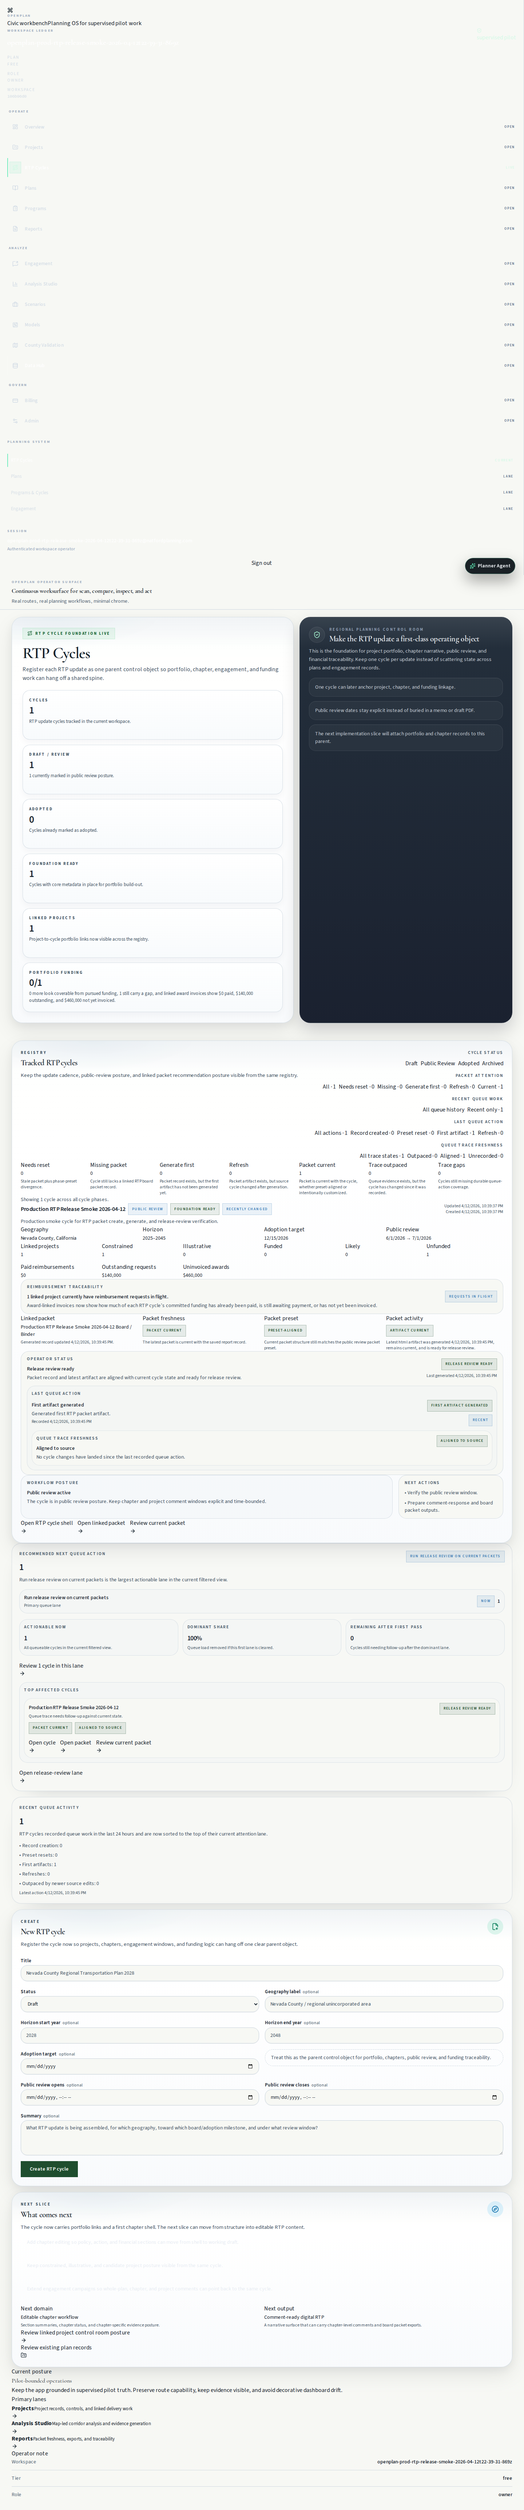
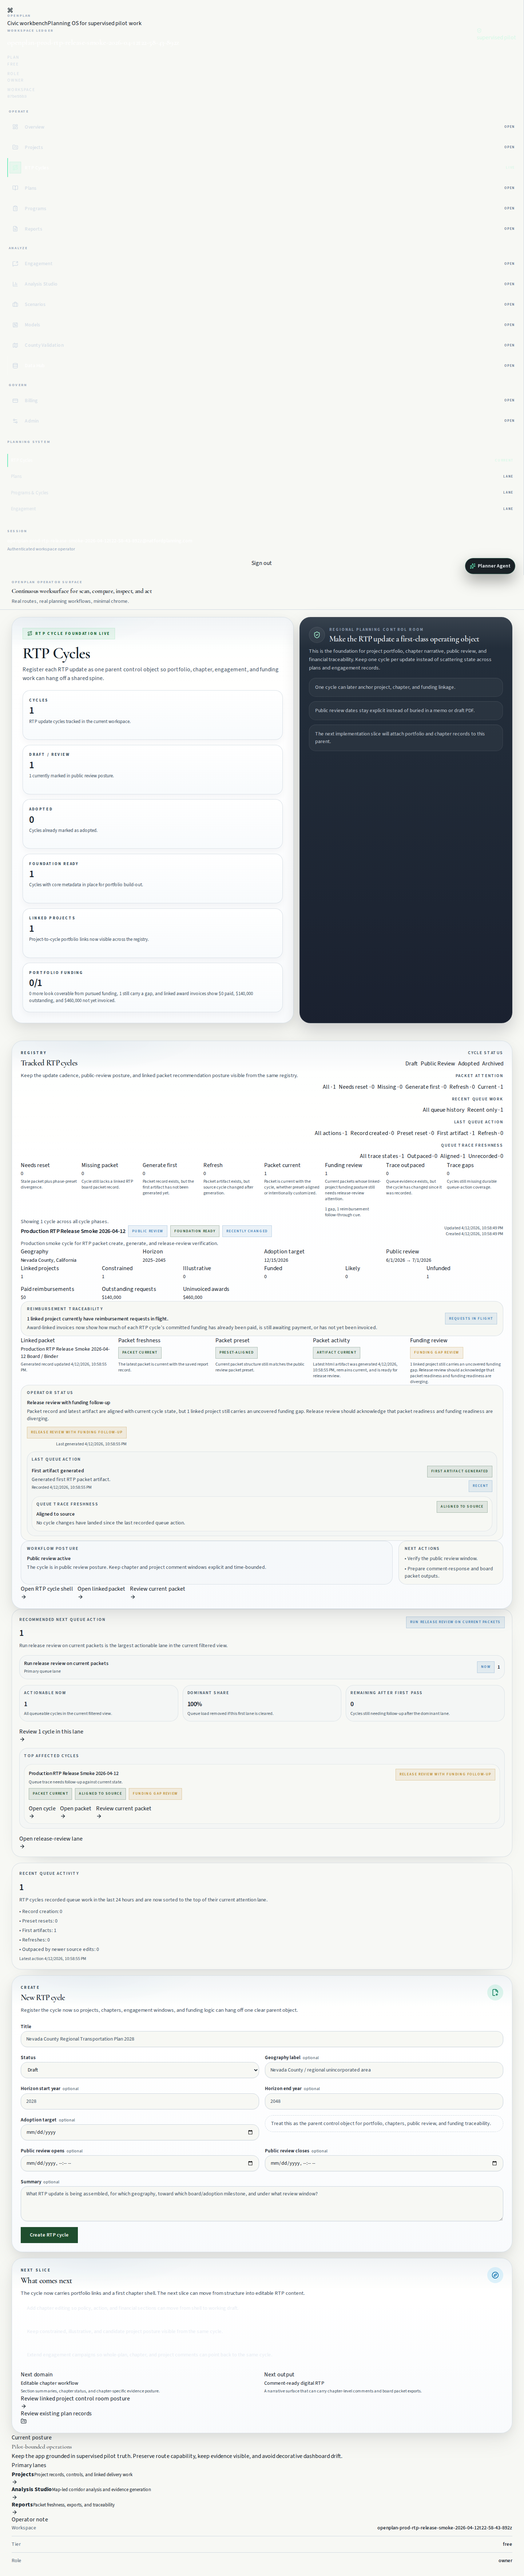
feat: surface RTP funding review in registry

diff --git a/openplan/src/app/(app)/rtp/page.tsx b/openplan/src/app/(app)/rtp/page.tsx
@@ -246,11 +246,91 @@ function matchesPacketAttentionFilter(filter: PacketAttentionFilter, packetAtten
   return filter === packetAttention;
 }
 
+function formatUsdWholeAmount(value: number) {
+  return new Intl.NumberFormat("en-US", {
+    style: "currency",
+    currency: "USD",
+    maximumFractionDigits: 0,
+  }).format(value);
+}
+
+function buildPacketFundingReview(input: {
+  linkedProjectCount: number;
+  fundedProjectCount: number;
+  likelyCoveredProjectCount: number;
+  unfundedProjectCount: number;
+  reimbursementInFlightCount: number;
+  outstandingReimbursementAmount: number;
+  uninvoicedAwardAmount: number;
+}) {
+  if (input.linkedProjectCount === 0) {
+    return {
+      label: "No linked projects",
+      tone: "neutral" as const,
+      detail: "This RTP cycle does not yet have linked projects, so funding-backed release review is not active here.",
+      needsAttention: false,
+    };
+  }
+
+  if (input.unfundedProjectCount > 0) {
+    return {
+      label: "Funding gap review",
+      tone: "warning" as const,
+      detail: `${input.unfundedProjectCount} linked project${input.unfundedProjectCount === 1 ? " still carries" : "s still carry"} an uncovered funding gap. Release review should acknowledge that packet readiness and funding readiness are diverging.`,
+      needsAttention: true,
+    };
+  }
+
+  if (input.uninvoicedAwardAmount > 0) {
+    return {
+      label: "Award follow-through pending",
+      tone: "info" as const,
+      detail: `${formatUsdWholeAmount(input.uninvoicedAwardAmount)} in awarded funding has not been invoiced yet, so packet release review should flag reimbursement follow-through before the cycle looks financially settled.`,
+      needsAttention: true,
+    };
+  }
+
+  if (input.outstandingReimbursementAmount > 0 || input.reimbursementInFlightCount > 0) {
+    return {
+      label: "Reimbursement in flight",
+      tone: "info" as const,
+      detail: `${formatUsdWholeAmount(input.outstandingReimbursementAmount)} remains outstanding across ${input.reimbursementInFlightCount} linked project${input.reimbursementInFlightCount === 1 ? " reimbursement request" : " reimbursement requests"} in flight.`,
+      needsAttention: true,
+    };
+  }
+
+  if (input.likelyCoveredProjectCount > 0) {
+    return {
+      label: "Pipeline-backed review",
+      tone: "info" as const,
+      detail: `${input.likelyCoveredProjectCount} linked project${input.likelyCoveredProjectCount === 1 ? " looks" : "s look"} likely coverable through pursued funding, but the packet still depends on pipeline conversion rather than secured money.`,
+      needsAttention: true,
+    };
+  }
+
+  if (input.fundedProjectCount > 0) {
+    return {
+      label: "Funding posture aligned",
+      tone: "success" as const,
+      detail: "Linked projects are fully funded or reimbursed with no visible funding follow-through pressure blocking packet release review.",
+      needsAttention: false,
+    };
+  }
+
+  return {
+    label: "Funding posture not anchored",
+    tone: "neutral" as const,
+    detail: "Linked projects exist, but no durable funding posture is anchored yet, so release review remains packet-heavy instead of truly integrated.",
+    needsAttention: false,
+  };
+}
+
 function buildPacketOperatorStatus(input: {
   packetReport: RtpPacketReportRow | null;
   packetFreshness: { label: string };
   packetPresetPosture: { label: string };
   packetQueueTraceState: { state: QueueTraceStateFilter; label: string };
+  packetFundingReview: { label: string; tone: "neutral" | "info" | "success" | "warning" | "danger"; detail: string; needsAttention: boolean };
 }) {
   if (!input.packetReport) {
     return {
@@ -297,6 +377,14 @@ function buildPacketOperatorStatus(input: {
       label: "Trace gap",
       tone: "neutral" as const,
       detail: "Packet state is visible, but this cycle still lacks durable queue-action trace coverage.",
+    };
+  }
+
+  if (input.packetFundingReview.needsAttention) {
+    return {
+      label: "Release review with funding follow-up",
+      tone: input.packetFundingReview.tone === "warning" ? ("warning" as const) : ("info" as const),
+      detail: `Packet record and latest artifact are aligned with current cycle state, but ${input.packetFundingReview.detail.charAt(0).toLowerCase()}${input.packetFundingReview.detail.slice(1)}`,
     };
   }
 
@@ -726,6 +814,27 @@ export default async function RtpPage({ searchParams }: { searchParams: RtpPageS
             : packetFreshness.label === "Refresh recommended"
             ? ("refresh" as const)
             : ("current" as const);
+      const packetFundingReview = buildPacketFundingReview({
+        linkedProjectCount: cycleLinks.length,
+        fundedProjectCount: cycleFundingSummaries.filter((summary) => summary.status === "funded").length,
+        likelyCoveredProjectCount: cycleFundingSummaries.filter(
+          (summary) => summary.status !== "funded" && summary.pipelineStatus === "likely_covered"
+        ).length,
+        unfundedProjectCount: cycleFundingSummaries.filter(
+          (summary) => summary.pipelineStatus === "unfunded" || summary.pipelineStatus === "partially_covered"
+        ).length,
+        reimbursementInFlightCount: cycleFundingSummaries.filter(
+          (summary) => summary.reimbursementStatus === "in_review"
+        ).length,
+        outstandingReimbursementAmount: cycleFundingSummaries.reduce(
+          (sum, summary) => sum + summary.outstandingReimbursementAmount,
+          0
+        ),
+        uninvoicedAwardAmount: cycleFundingSummaries.reduce(
+          (sum, summary) => sum + summary.uninvoicedAwardAmount,
+          0
+        ),
+      });
 
       return {
         ...cycle,
@@ -763,7 +872,9 @@ export default async function RtpPage({ searchParams }: { searchParams: RtpPageS
           packetFreshness,
           packetPresetPosture,
           packetQueueTraceState,
+          packetFundingReview,
         }),
+        packetFundingReview,
         packetQueueTrace,
         packetQueueTraceState,
         packetActivityTrace: buildPacketActivityTrace({
@@ -973,6 +1084,17 @@ export default async function RtpPage({ searchParams }: { searchParams: RtpPageS
   const dominantActionReportIds = dominantActionCycles
     .map((cycle) => cycle.packetReport?.id ?? null)
     .filter((value): value is string => Boolean(value));
+  const currentFundingReviewCount = typedCycles.filter(
+    (cycle) => cycle.packetAttention === "current" && cycle.packetFundingReview.needsAttention
+  ).length;
+  const currentFundingGapReviewCount = typedCycles.filter(
+    (cycle) => cycle.packetAttention === "current" && cycle.packetFundingReview.label === "Funding gap review"
+  ).length;
+  const currentReimbursementFollowThroughCount = typedCycles.filter(
+    (cycle) =>
+      cycle.packetAttention === "current" &&
+      (cycle.uninvoicedAwardAmount > 0 || cycle.outstandingReimbursementAmount > 0 || cycle.reimbursementInFlightCount > 0)
+  ).length;
   const dominantTraceFollowUpCounts = {
     outpaced: dominantActionCycles.filter((cycle) => cycle.packetQueueTraceState.state === "outpaced").length,
     unrecorded: dominantActionCycles.filter((cycle) => cycle.packetQueueTraceState.state === "unrecorded").length,
@@ -1219,7 +1341,7 @@ export default async function RtpPage({ searchParams }: { searchParams: RtpPageS
               </div>
             </div>
 
-            <div className="grid gap-3 md:grid-cols-2 xl:grid-cols-7">
+            <div className="grid gap-3 md:grid-cols-2 xl:grid-cols-8">
               <div className="module-metric-card">
                 <p className="module-metric-label">Needs reset</p>
                 <p className="module-metric-value text-sm">{packetAttentionCounts.reset}</p>
@@ -1244,6 +1366,18 @@ export default async function RtpPage({ searchParams }: { searchParams: RtpPageS
                 <p className="module-metric-label">Packet current</p>
                 <p className="module-metric-value text-sm">{packetAttentionCounts.current}</p>
                 <p className="mt-1 text-xs text-muted-foreground">Packet is current with the cycle, whether preset-aligned or intentionally customized.</p>
+              </div>
+              <div className="module-metric-card">
+                <p className="module-metric-label">Funding review</p>
+                <p className="module-metric-value text-sm">{currentFundingReviewCount}</p>
+                <p className="mt-1 text-xs text-muted-foreground">
+                  Current packets whose linked-project funding posture still needs release-review attention.
+                </p>
+                {currentFundingReviewCount > 0 ? (
+                  <p className="mt-3 text-xs text-muted-foreground">
+                    {currentFundingGapReviewCount} gap{currentFundingGapReviewCount === 1 ? "" : "s"}, {currentReimbursementFollowThroughCount} reimbursement follow-through cue{currentReimbursementFollowThroughCount === 1 ? "" : "s"}.
+                  </p>
+                ) : null}
               </div>
               <div className="module-metric-card">
                 <p className="module-metric-label">Trace outpaced</p>
@@ -1428,7 +1562,7 @@ export default async function RtpPage({ searchParams }: { searchParams: RtpPageS
                       </div>
                     </div>
 
-                    <div className="grid gap-3 md:grid-cols-2 xl:grid-cols-4">
+                    <div className="grid gap-3 md:grid-cols-2 xl:grid-cols-5">
                       <div className="module-metric-card">
                         <p className="module-metric-label">Linked packet</p>
                         <p className="module-metric-value text-sm">{cycle.packetReport?.title ?? "Not created"}</p>
@@ -1458,6 +1592,13 @@ export default async function RtpPage({ searchParams }: { searchParams: RtpPageS
                           <StatusBadge tone={cycle.packetActivityTrace.tone}>{cycle.packetActivityTrace.label}</StatusBadge>
                         </div>
                         <p className="mt-2 text-xs text-muted-foreground">{cycle.packetActivityTrace.detail}</p>
+                      </div>
+                      <div className="module-metric-card">
+                        <p className="module-metric-label">Funding review</p>
+                        <div className="mt-1">
+                          <StatusBadge tone={cycle.packetFundingReview.tone}>{cycle.packetFundingReview.label}</StatusBadge>
+                        </div>
+                        <p className="mt-2 text-xs text-muted-foreground">{cycle.packetFundingReview.detail}</p>
                       </div>
                     </div>
 
@@ -1741,6 +1882,7 @@ export default async function RtpPage({ searchParams }: { searchParams: RtpPageS
                             <div className="mt-2 flex flex-wrap gap-2">
                               <StatusBadge tone={cycle.packetFreshness.tone}>{cycle.packetFreshness.label}</StatusBadge>
                               <StatusBadge tone={cycle.packetQueueTraceState.tone}>{cycle.packetQueueTraceState.label}</StatusBadge>
+                              <StatusBadge tone={cycle.packetFundingReview.tone}>{cycle.packetFundingReview.label}</StatusBadge>
                             </div>
                           </div>
                           <StatusBadge tone={cycle.packetOperatorStatus.tone}>{cycle.packetOperatorStatus.label}</StatusBadge>

diff --git a/qa-harness/openplan-prod-rtp-release-review-smoke.js b/qa-harness/openplan-prod-rtp-release-review-smoke.js
@@ -272,10 +272,14 @@ async function main() {
 
     await page.goto(`${productionBaseUrl}/rtp`, { waitUntil: 'networkidle' });
     await page.getByText(cycleTitle, { exact: false }).first().waitFor({ timeout: 30000 });
+    const cycleRow = page.locator('article').filter({ has: page.getByRole('link', { name: new RegExp(cycleTitle, 'i') }) }).first();
+    await cycleRow.getByText(/Release review with funding follow-up/i).first().waitFor({ timeout: 30000 });
+    await cycleRow.getByText(/Funding gap review|Award follow-through pending|Reimbursement in flight|Pipeline-backed review/i).first().waitFor({ timeout: 30000 });
+    await page.getByText(/Funding review/i).first().waitFor({ timeout: 30000 });
     await page.getByRole('link', { name: /Open release-review lane/i }).waitFor({ timeout: 30000 });
     const reviewCurrentPacketLink = page.getByRole('link', { name: /Review current packet/i }).first();
     await reviewCurrentPacketLink.waitFor({ timeout: 30000 });
-    notes.push('Production RTP registry rendered the release-review lane CTA and the row-level current-packet action.');
+    notes.push('Production RTP registry rendered the release-review lane CTA, the row-level current-packet action, and funding-backed release-review cues before opening the packet detail.');
     await screenshot('prod-rtp-release-review-01-registry');
 
     await Promise.all([

diff --git a/docs/ops/2026-04-12-openplan-production-rtp-release-review-smoke.md b/docs/ops/2026-04-12-openplan-production-rtp-release-review-smoke.md
@@ -1,28 +1,28 @@
 # OpenPlan Production RTP Release-Review Smoke — 2026-04-12
 
 - Base URL: https://openplan-natford.vercel.app
-- QA user email: openplan-prod-rtp-release-smoke-2026-04-12T22-39-31-869Z@natfordplanning.com
+- QA user email: openplan-prod-rtp-release-smoke-2026-04-12T22-58-43-892Z@natfordplanning.com
 - QA user id: unknown
-- Workspace id: 106b96d0-77a8-4278-be42-4f172b3e58ed
-- RTP cycle id: 81584c30-38f8-413d-a704-e212f2ceb11e
-- Project id: 3dd1bb9d-bf99-4463-ac2b-dab1a2405839
-- Opportunity id: edb691d2-6b17-4f61-a777-0fd44d4944a7
-- Award id: d86bc8ab-5c07-4ea7-8c2d-f69e32d4bc59
-- Invoice id: aa22f977-5b19-4f30-9281-a136f2957441
-- Report id: 909c9b36-1d0a-42d5-9716-75058e4fbe3b
+- Workspace id: 87be55b3-8029-4d25-8f0c-60786f5632b1
+- RTP cycle id: f8baba14-30fc-4663-82a8-4aec70c056df
+- Project id: 8d533f15-b125-4282-aed7-1ef83943148c
+- Opportunity id: 9c14fae1-74f0-416e-9e20-02a9e91c0314
+- Award id: 1dea891b-7c90-4719-a061-571380c6fcce
+- Invoice id: 3646559f-bfe9-4154-9083-f9917d07b95d
+- Report id: 0687e1cd-6078-45c8-88cd-d0f60825596f
 
 ## Pass/Fail Notes
-- PASS: Created QA auth user openplan-prod-rtp-release-smoke-2026-04-12T22-39-31-869Z@natfordplanning.com.
+- PASS: Created QA auth user openplan-prod-rtp-release-smoke-2026-04-12T22-58-43-892Z@natfordplanning.com.
 - PASS: Signed into production successfully.
-- PASS: Bootstrapped workspace OpenPlan Prod RTP Release Smoke 22-39-31.
-- PASS: Current workspace resolved to 106b96d0-77a8-4278-be42-4f172b3e58ed instead of the freshly bootstrapped workspace 22325592-7e92-4949-9e35-35d29b8ec5b3; RTP smoke data was aligned to the active workspace selection.
+- PASS: Bootstrapped workspace OpenPlan Prod RTP Release Smoke 22-58-43.
+- PASS: Current workspace resolved to 87be55b3-8029-4d25-8f0c-60786f5632b1 instead of the freshly bootstrapped workspace f92b12ea-1de1-4b44-bdf5-15ccbe26f759; RTP smoke data was aligned to the active workspace selection.
 - PASS: Created production RTP cycle Production RTP Release Smoke 2026-04-12.
-- PASS: Seeded linked RTP project RTP Funding Smoke Project 22-39-31 in the active workspace.
+- PASS: Seeded linked RTP project RTP Funding Smoke Project 22-58-43 in the active workspace.
 - PASS: Linked the smoke project into the RTP cycle portfolio.
 - PASS: Seeded funding profile, opportunity, award, and reimbursement packet for the linked RTP project.
 - PASS: Created RTP board-packet record from the production API.
 - PASS: Generated the first RTP packet artifact on production through the existing report generation route.
-- PASS: Production RTP registry rendered the release-review lane CTA and the row-level current-packet action.
+- PASS: Production RTP registry rendered the release-review lane CTA, the row-level current-packet action, and funding-backed release-review cues before opening the packet detail.
 - PASS: Production registry current-packet link landed on the packet release-review anchor in report detail.
 - PASS: Production RTP release review surfaced funding posture alongside chapter/workflow drift after reimbursement changed post-generation.
 

diff --git a/docs/ops/2026-04-12-openplan-production-qa-cleanup.md b/docs/ops/2026-04-12-openplan-production-qa-cleanup.md
@@ -1,6 +1,6 @@
 # OpenPlan Production QA Cleanup — 2026-04-12
 
-- Started: 2026-04-12T22:40:02.050Z
+- Started: 2026-04-12T22:59:12.211Z
 - Mode: apply
 - Env path: /home/narford/.openclaw/workspace/openplan/openplan/.env.local
 - Created-after filter: 2026-04-12
@@ -8,40 +8,38 @@
 
 ## Scope
 - Targeted QA/debug/proof/trace/canary production records created on or after 2026-04-12.
-- Targeted workspaces: 6
+- Targeted workspaces: 4
 - Targeted county runs: 0
-- Targeted auth users: 3
+- Targeted auth users: 2
 
 ## Stripe checkout sessions
 - No Stripe checkout sessions found for targeted workspaces.
 
 ## Delete plan
-- report_artifacts: planned=1
-- report_sections: planned=6
-- billing_events: planned=6
-- reports: planned=1
-- projects: planned=3
-- workspace_members: planned=6
-- workspaces: planned=6
+- report_artifacts: planned=2
+- report_sections: planned=12
+- billing_events: planned=4
+- reports: planned=2
+- projects: planned=2
+- workspace_members: planned=4
+- workspaces: planned=4
 
 ## Auth plan
-- openplan-prod-rtp-release-smoke-2026-04-12t22-39-31-869z@natfordplanning.com
-- openplan-prod-rtp-release-smoke-2026-04-12t22-38-41-079z@natfordplanning.com
-- openplan-prod-rtp-release-smoke-2026-04-12t22-37-03-897z@natfordplanning.com
+- openplan-prod-rtp-release-smoke-2026-04-12t22-58-43-892z@natfordplanning.com
+- openplan-prod-rtp-release-smoke-2026-04-12t22-57-44-547z@natfordplanning.com
 
 ## Delete results
-- report_artifacts: status=200 ok=true planned=1 deleted=1
-- report_sections: status=200 ok=true planned=6 deleted=6
-- billing_events: status=200 ok=true planned=6 deleted=0
-- reports: status=200 ok=true planned=1 deleted=1
-- projects: status=200 ok=true planned=3 deleted=3
-- workspace_members: status=200 ok=true planned=6 deleted=6
-- workspaces: status=200 ok=true planned=6 deleted=6
+- report_artifacts: status=200 ok=true planned=2 deleted=2
+- report_sections: status=200 ok=true planned=12 deleted=12
+- billing_events: status=200 ok=true planned=4 deleted=0
+- reports: status=200 ok=true planned=2 deleted=2
+- projects: status=200 ok=true planned=2 deleted=2
+- workspace_members: status=200 ok=true planned=4 deleted=4
+- workspaces: status=200 ok=true planned=4 deleted=4
 
 ## Auth deletes
-- openplan-prod-rtp-release-smoke-2026-04-12t22-39-31-869z@natfordplanning.com: status=200 ok=true
-- openplan-prod-rtp-release-smoke-2026-04-12t22-38-41-079z@natfordplanning.com: status=200 ok=true
-- openplan-prod-rtp-release-smoke-2026-04-12t22-37-03-897z@natfordplanning.com: status=200 ok=true
+- openplan-prod-rtp-release-smoke-2026-04-12t22-58-43-892z@natfordplanning.com: status=200 ok=true
+- openplan-prod-rtp-release-smoke-2026-04-12t22-57-44-547z@natfordplanning.com: status=200 ok=true
 
 ## Verification
 - Remaining matching workspaces: 0
